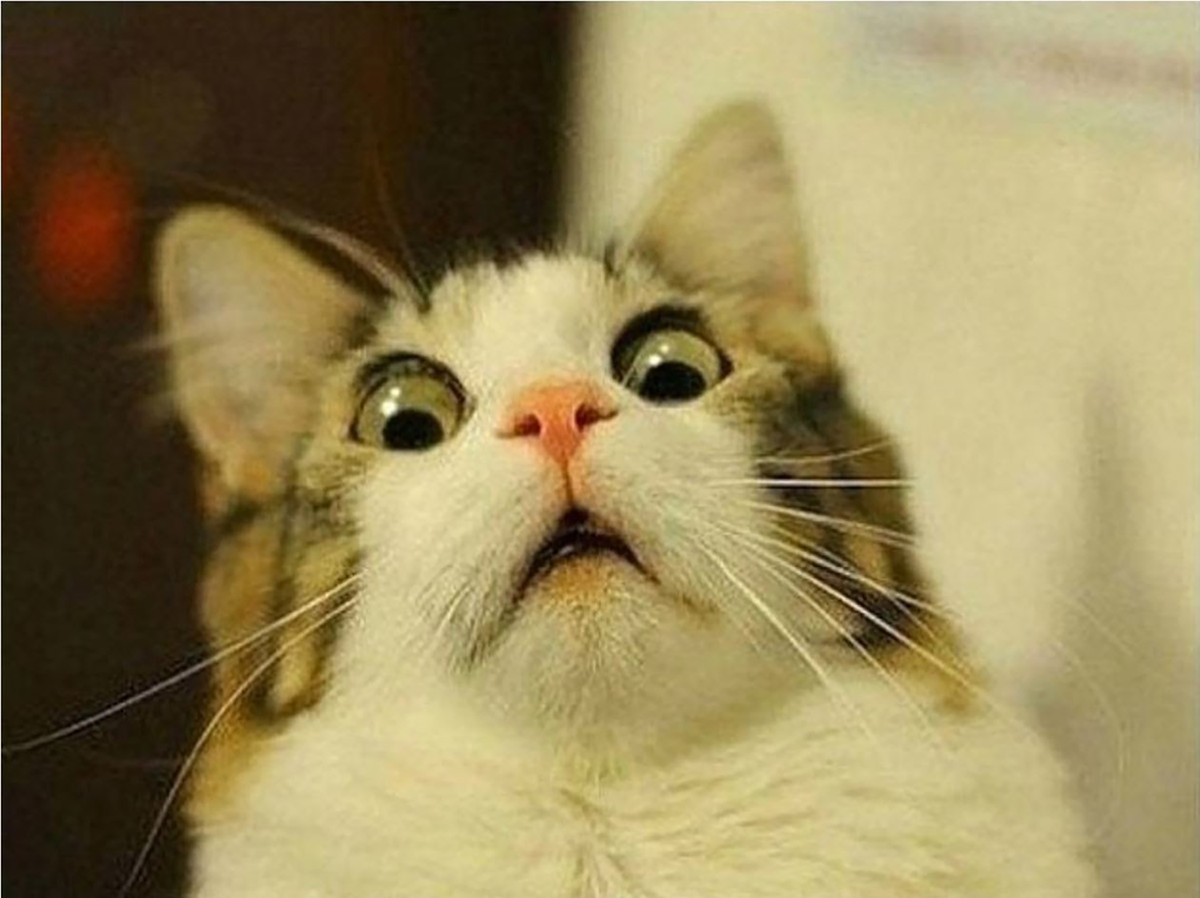
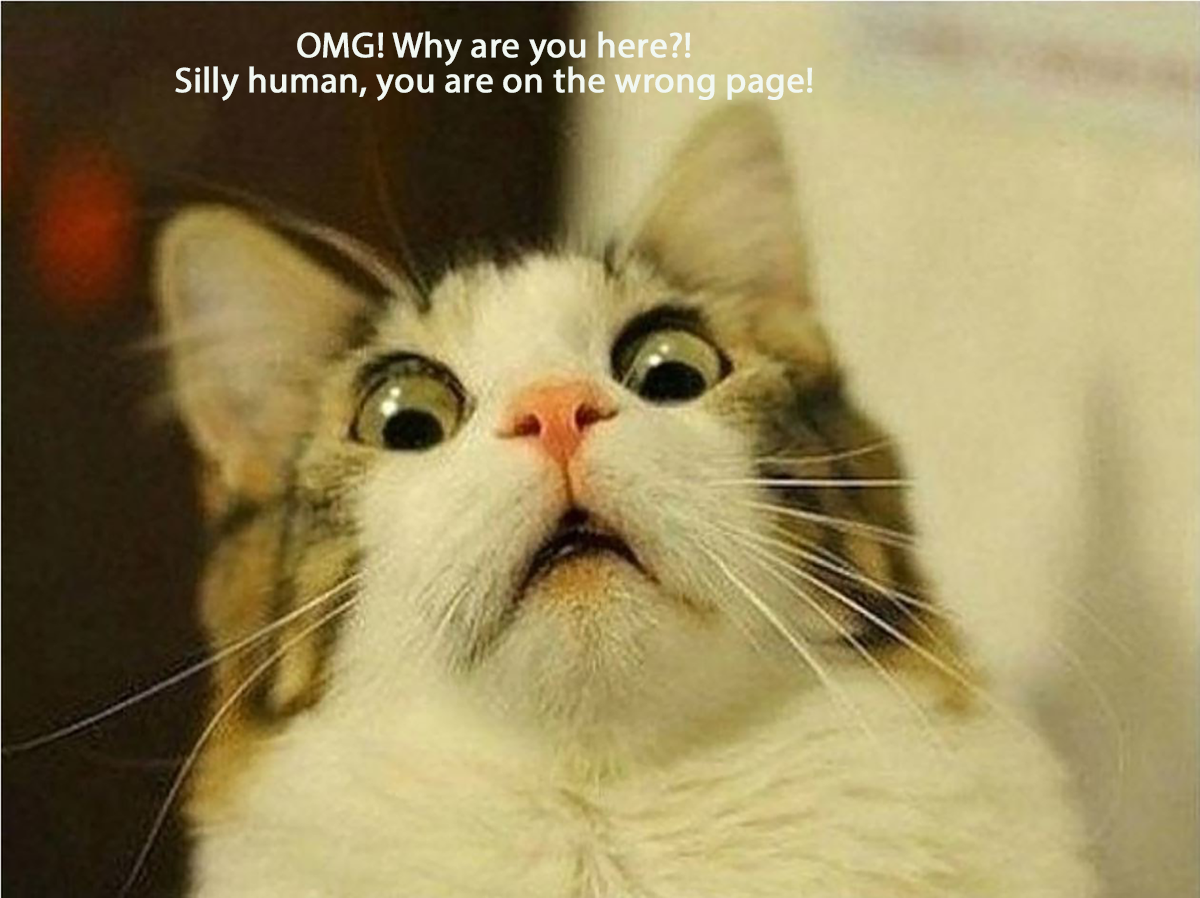
more 404 page changes. Had to add styles in php file instead of css, weird but wouldn't work otherwise. Will try to find a better solution.

Changed region(s): [[0.1542, 0.0312, 0.6783, 0.1247]]

diff --git a/wp-content/themes/accelerate-theme-child/style.css b/wp-content/themes/accelerate-theme-child/style.css
@@ -255,15 +255,3 @@ padding: 5%;
 }
 
 /*============= 404 Page ================*/
-
-.cat-404 img{
-  margin: 5%;
-  position: relative;
-  width: 100%;
-}
-.cat-404 h1, .cat-404 p{
-  position: absolute;
-  top: 200px;
-  width: 100%;
-
-}

diff --git a/wp-content/themes/accelerate-theme-child/404.php b/wp-content/themes/accelerate-theme-child/404.php
@@ -1,6 +1,6 @@
 <?php
 /**
- * The template for displaying the 404 page
+ * The template for displaying the 404 page (Not Found)
  *
  *
  * @package WordPress
@@ -8,13 +8,28 @@
  * @since Accelerate Marketing 1.0
  */
 ?>
-
-<section class="404">
-  <div class="404-page">
-    <div class="cat-404">
-      <img src="<?php echo get_stylesheet_directory_uri(); ?>/img/cat1.png" alt="Surprised Cat" style="width:1200px;height:898px;">
-      <h1>OMG! Why are you here?!<h1>
-      <p>Silly human, this is not the right page..</p>
-    </div>
-  </div>
-  </section>
+      <div class="content404-area">
+           <div class="a404-content" role="main">
+                <header class="page404-header" style="margin-left:35%;">
+                     <h1>Oh no! You have a 404 Error!</h1>
+                </header>
+                <div class="error-wrapper">
+                   <div class="error-logo">
+                     <img src="<?php echo get_stylesheet_directory_uri(); ?>/img/cat1.png" alt="Surprised Cat" style="width:1200px;height:898px;margin-left:7%;">
+                   </div>
+                      <div class="error-message">
+                          <p style="margin-left:38%;">Sorry, but you seem to be in the wrong place.</p>
+                      </div>
+                  </div>
+                         <div class="search-form">
+                         <p style="margin-left:38%;"> You can search below or return to homepage </p>
+                         <ul>
+                           <li style="margin-left:37%;list-style:none;"><?php get_search_form(); ?></li>
+                         </ul>
+                        </div>
+                   <ul class="error-links">
+                        <li style="list-style:none;margin-left:1%;"><a href="<?php echo home_url(); ?> ">Home</a> <img src="<?php echo get_stylesheet_directory_uri(); ?>/img/cat3.png"/> </li>
+                        <li style="list-style:none;margin-left:75%;margin-top:-15%;"> <img src="<?php echo get_stylesheet_directory_uri(); ?>/img/cat2.png"/><a href=" # ">Popular Pages</a></li>
+                   </ul>
+           </div><!-- #content -->
+      </div><!-- #primary -->
